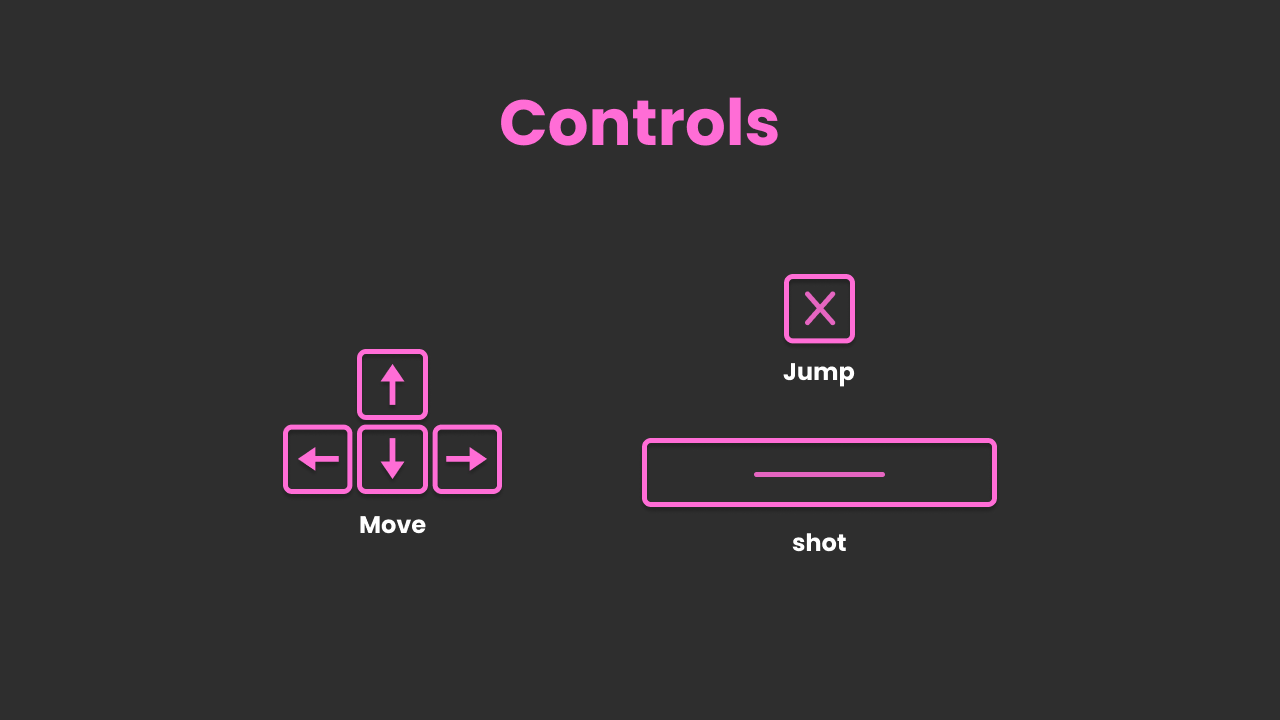
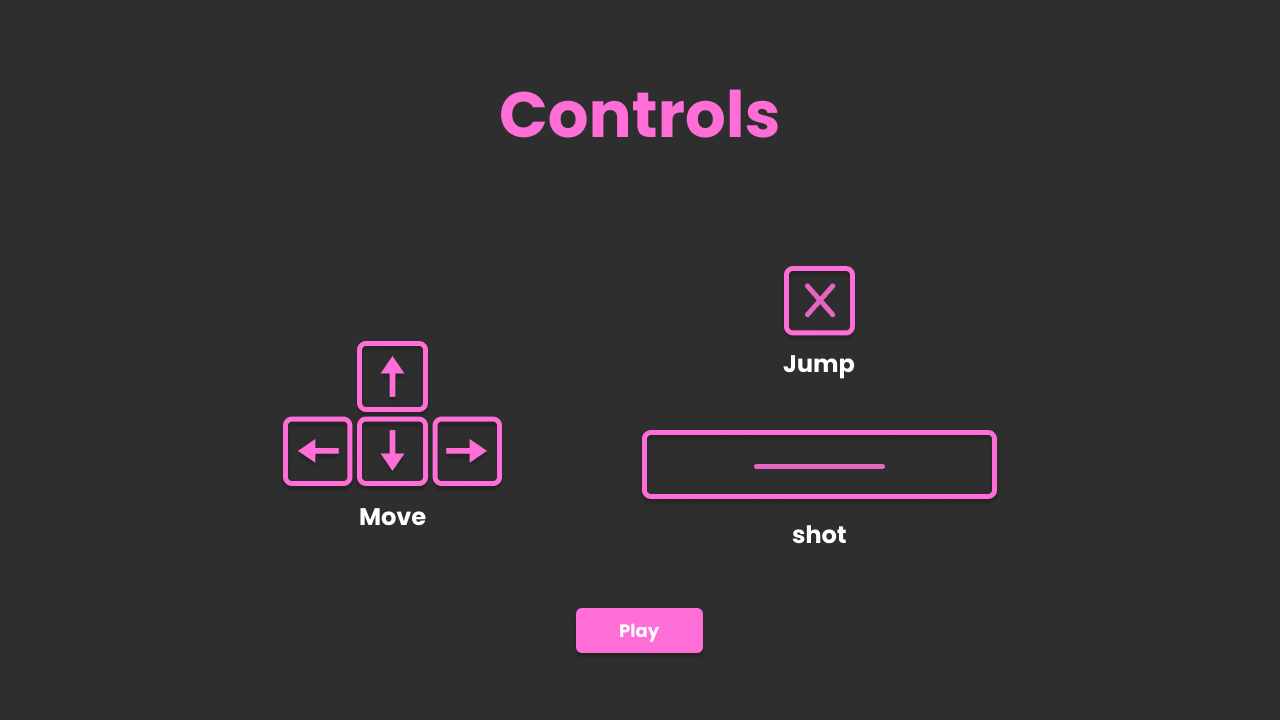
All scenarios have platform

diff --git a/src/view/Main.java b/src/view/Main.java
@@ -123,7 +123,7 @@ public class Main extends PApplet {
 	
 	public void draw () {
 		background(46,46,46);
-		screen = 4;
+		screen = 3;
 		switch(screen) {
 	
 		// Screen where you write your name
@@ -131,10 +131,10 @@ public class Main extends PApplet {
 			background(46,46,46);
 			image(register, 0, 0);
 		break;
-		
+	
 		//Instruction screen
 		case 1:
-		
+			image(instruction, 0, 0);
 		break;
 		
 		//Game Screen first level
@@ -166,6 +166,12 @@ public class Main extends PApplet {
 			}
 			
 			anzu.draw();
+			chopper.draw();
+			chopper.run();
+			demon.draw();
+			demon.run();
+			eye.draw();
+			eye.move();
 		break;
 		
 		//Game Screen third level
@@ -178,6 +184,12 @@ public class Main extends PApplet {
 			}
 			
 			anzu.draw();
+			chopper.draw();
+			chopper.run();
+			demon.draw();
+			demon.run();
+			eye.draw();
+			eye.move();
 		break;
 		
 		//Lost screen
@@ -200,10 +212,31 @@ public class Main extends PApplet {
 	}
 	
 	public void MoveScenario(int offset){
-		scen1X -= offset;
-		for (int i = 0; i < platformsRed.size(); i++) {
-			platformsRed.get(i).setPosX(platformsRed.get(i).getPosX()- offset);
+	
+		switch(screen) {
+		
+		case 2:
+			scen1X -= offset;
+			for (int i = 0; i < platformsRed.size(); i++) {
+				platformsRed.get(i).setPosX(platformsRed.get(i).getPosX()- offset);
+			}
+		break;
+		
+		case 3:
+			scen2X -= offset;
+			for (int i = 0; i < platformsRose.size(); i++) {
+				platformsRose.get(i).setPosX(platformsRose.get(i).getPosX()- offset);
+			}
+		break;
+		
+		case 4:
+			scen3X -= offset; 
+			for (int i = 0; i < platformsBlue.size(); i++) {
+				platformsBlue.get(i).setPosX(platformsBlue.get(i).getPosX()- offset);
+			}
+		break;
 		}
+		
 	}
 	
 	public void keyPressed() {
@@ -219,6 +252,58 @@ public class Main extends PApplet {
 	public void validatePlatformColision () {
 		for (int i = 0; i < platformNames.length; i++) {
 			
+		}
+	}
+	
+	public void mousePressed() {
+		switch(screen) {
+		
+		// Screen where you write your name
+		case 0:
+			if (mouseX > 572 && mouseX < 699 && mouseY > 407 && mouseY < 452) {
+				screen = 1;
+			}
+		break;
+	
+		//Instruction screen
+		case 1:
+			if (mouseX > 573 && mouseX < 700 && mouseY > 605 && mouseY < 652) {
+				screen = 2;
+				System.out.println(screen);
+			}
+	
+		break;
+		
+		//Game Screen first level
+		case 2:
+			
+		break;
+		
+		//Game Screen second level
+		case 3:
+			
+		break;
+		
+		//Game Screen third level
+		case 4:
+			
+		break;
+		
+		//Lost screen
+		case 5:
+		
+		break;
+		
+		// Win screen
+		case 6:
+		
+		break;
+		
+		// Data screen
+		case 7:
+		 
+		break;
+		
 		}
 	}
 	
